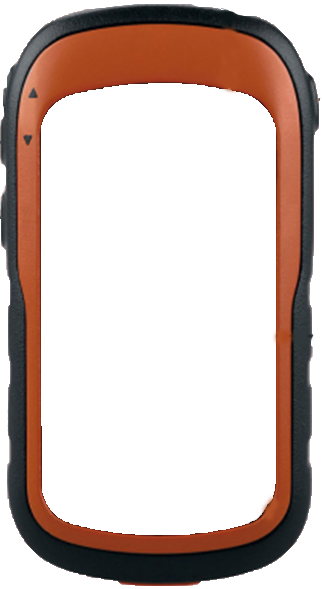
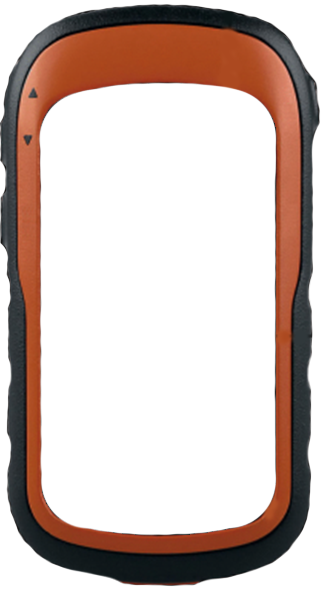
Working on display

diff --git a/xtrek/src/xtrek/ControlLayout.java b/xtrek/src/xtrek/ControlLayout.java
@@ -57,16 +57,16 @@ public class ControlLayout {
         GridBagConstraints con = new GridBagConstraints();
         JLabel overlay = new JLabel();
         try {
-            overlay.setIcon(new ImageIcon(ImageIO.read(new File("xtrek/src/xtrek/assets/display.png"))));
-            con.gridx = 0;
+            Image img = ImageIO.read(getClass().getResource("assets/display.png"));
+            overlay.setIcon(new ImageIcon(img));
+            con.gridx = 4;
             con.gridy = 0;
             con.gridwidth = 8;
             con.gridheight = 17;
             con.fill = GridBagConstraints.BOTH;
             controlPanel.add(overlay, con);
         } catch(IOException e) {
-            e.printStackTrace();
-            //TODO handle can't find overlay
+            System.out.println(e);
         }
 
         //add the control buttons to the new panel created

diff --git a/xtrek/src/xtrek/MainMenuView.java b/xtrek/src/xtrek/MainMenuView.java
@@ -50,7 +50,7 @@ public class MainMenuView extends ModeView{
         GridBagConstraints c = new GridBagConstraints();
 
         c.fill = GridBagConstraints.BOTH;
-        c.insets = new Insets(10, 10, 10, 10);
+        c.insets = new Insets(10, 0, 40, 40);
         c.weightx = 1.0;
         c.weighty = 1.0;
 
